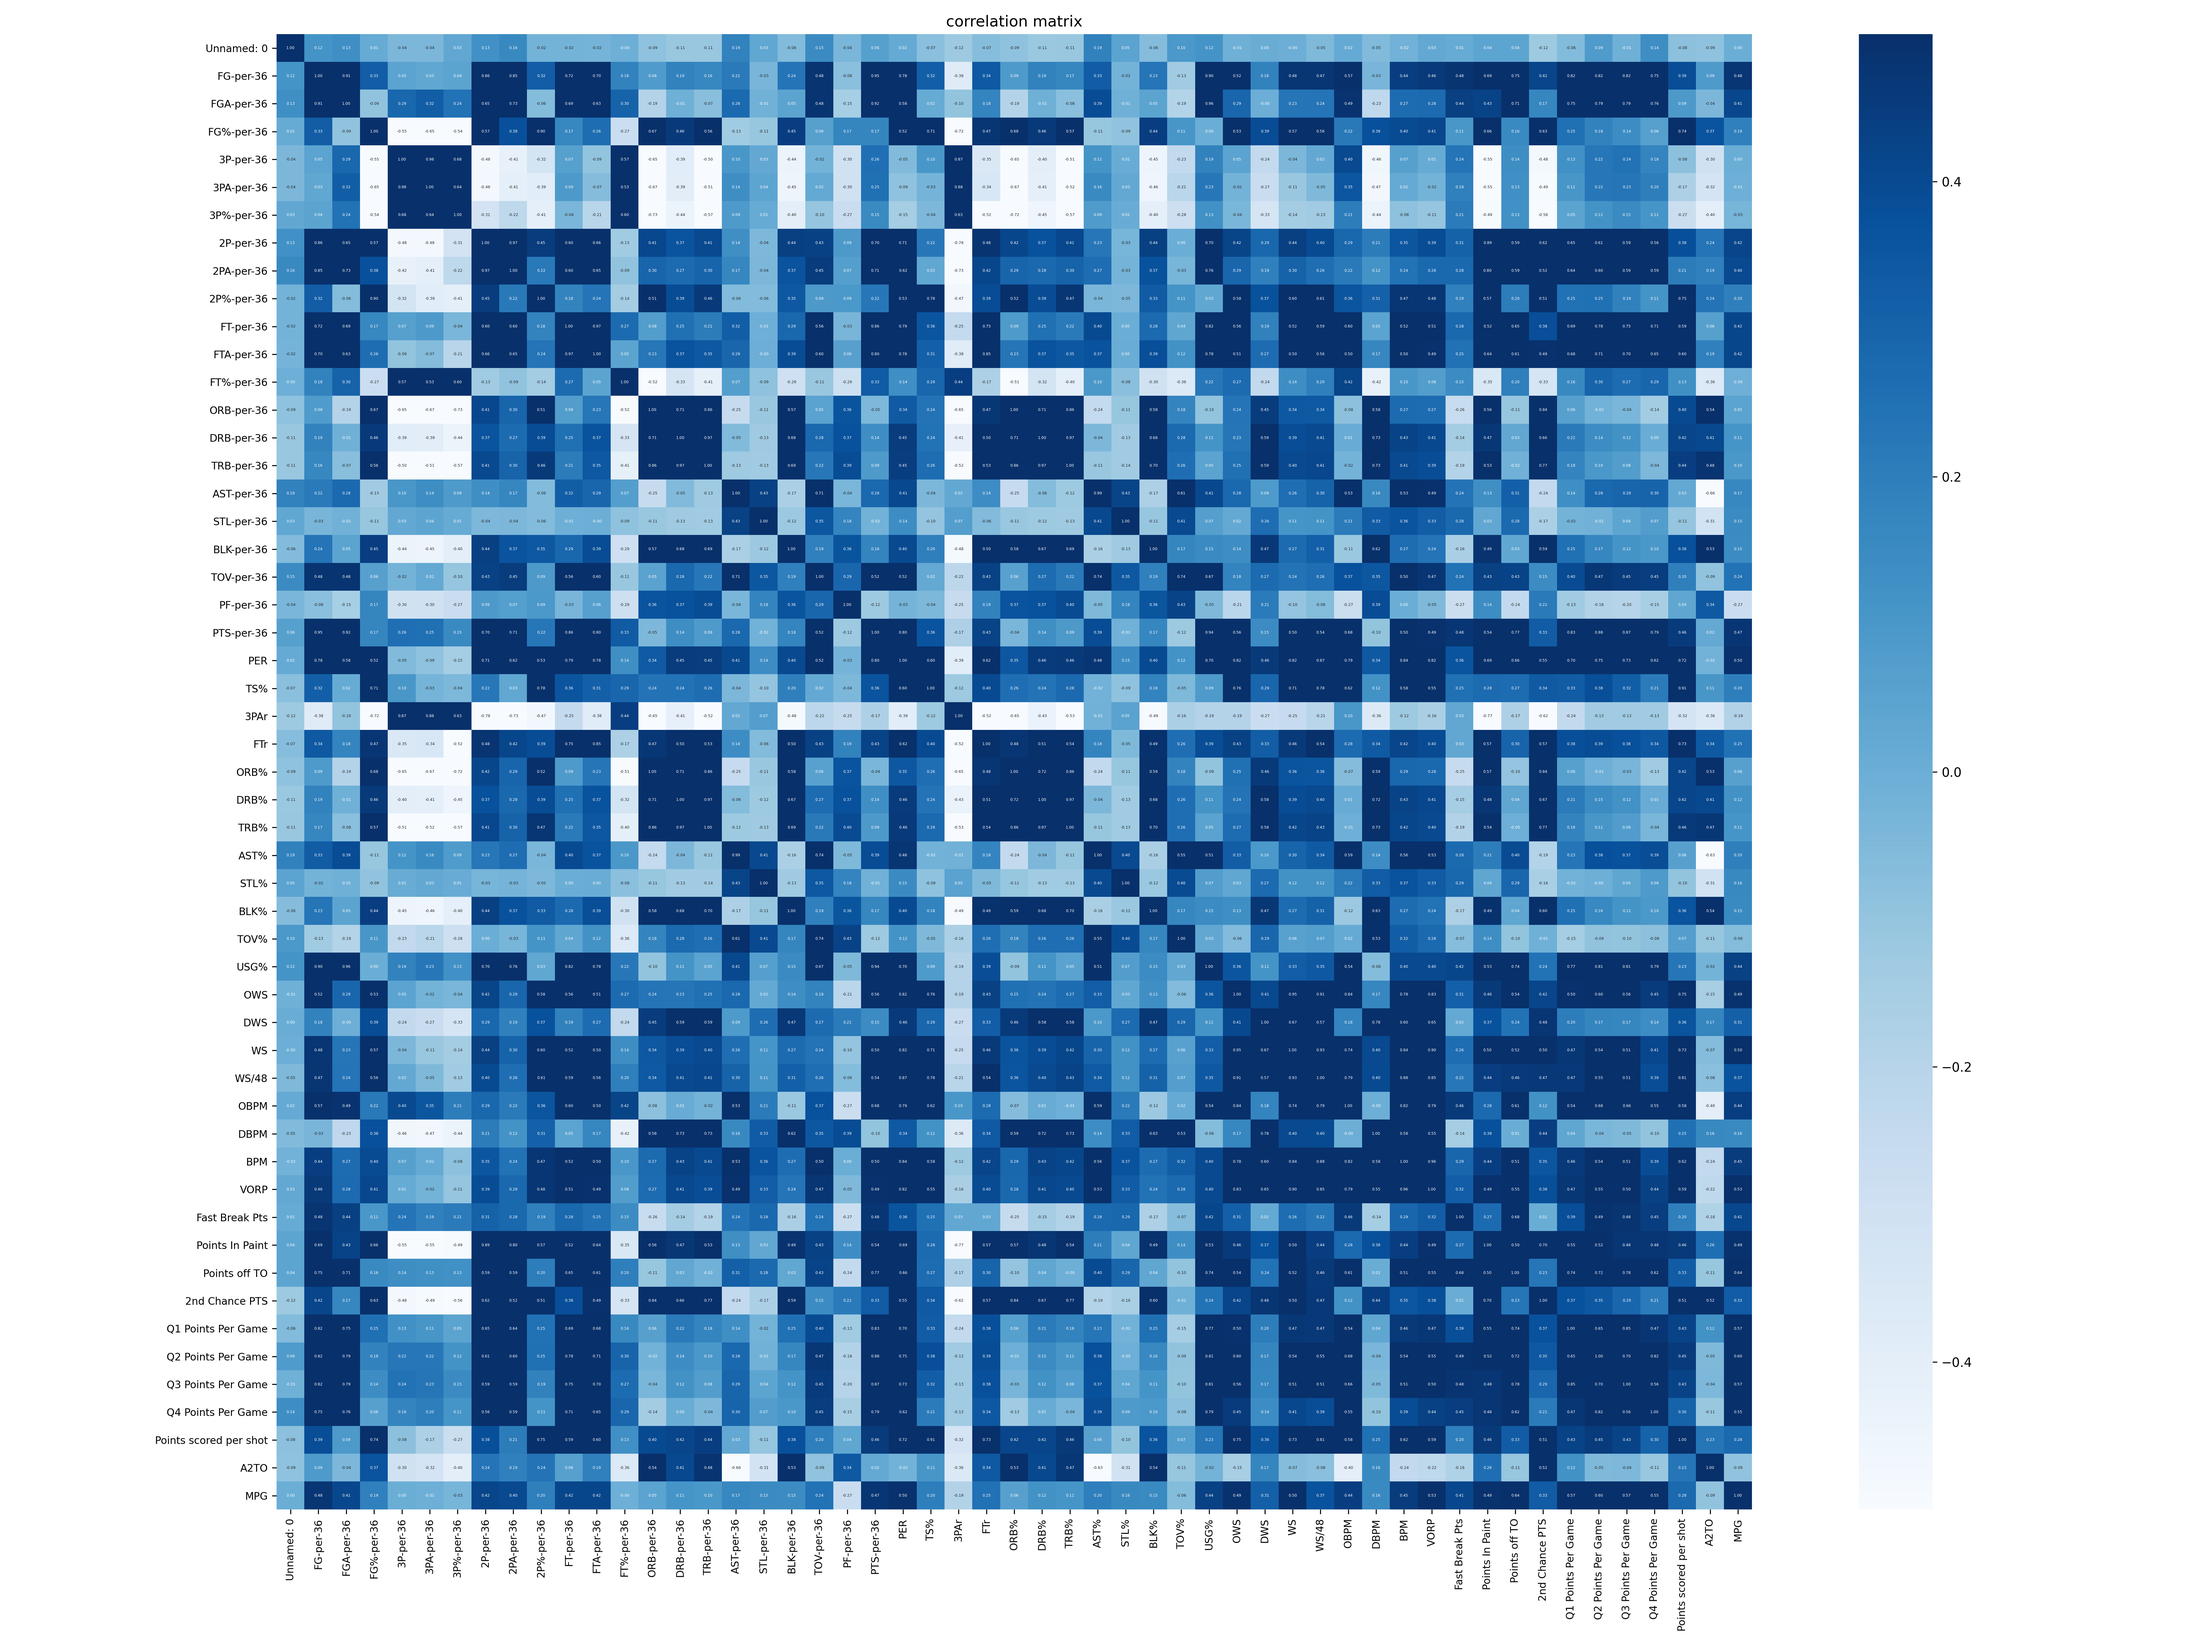
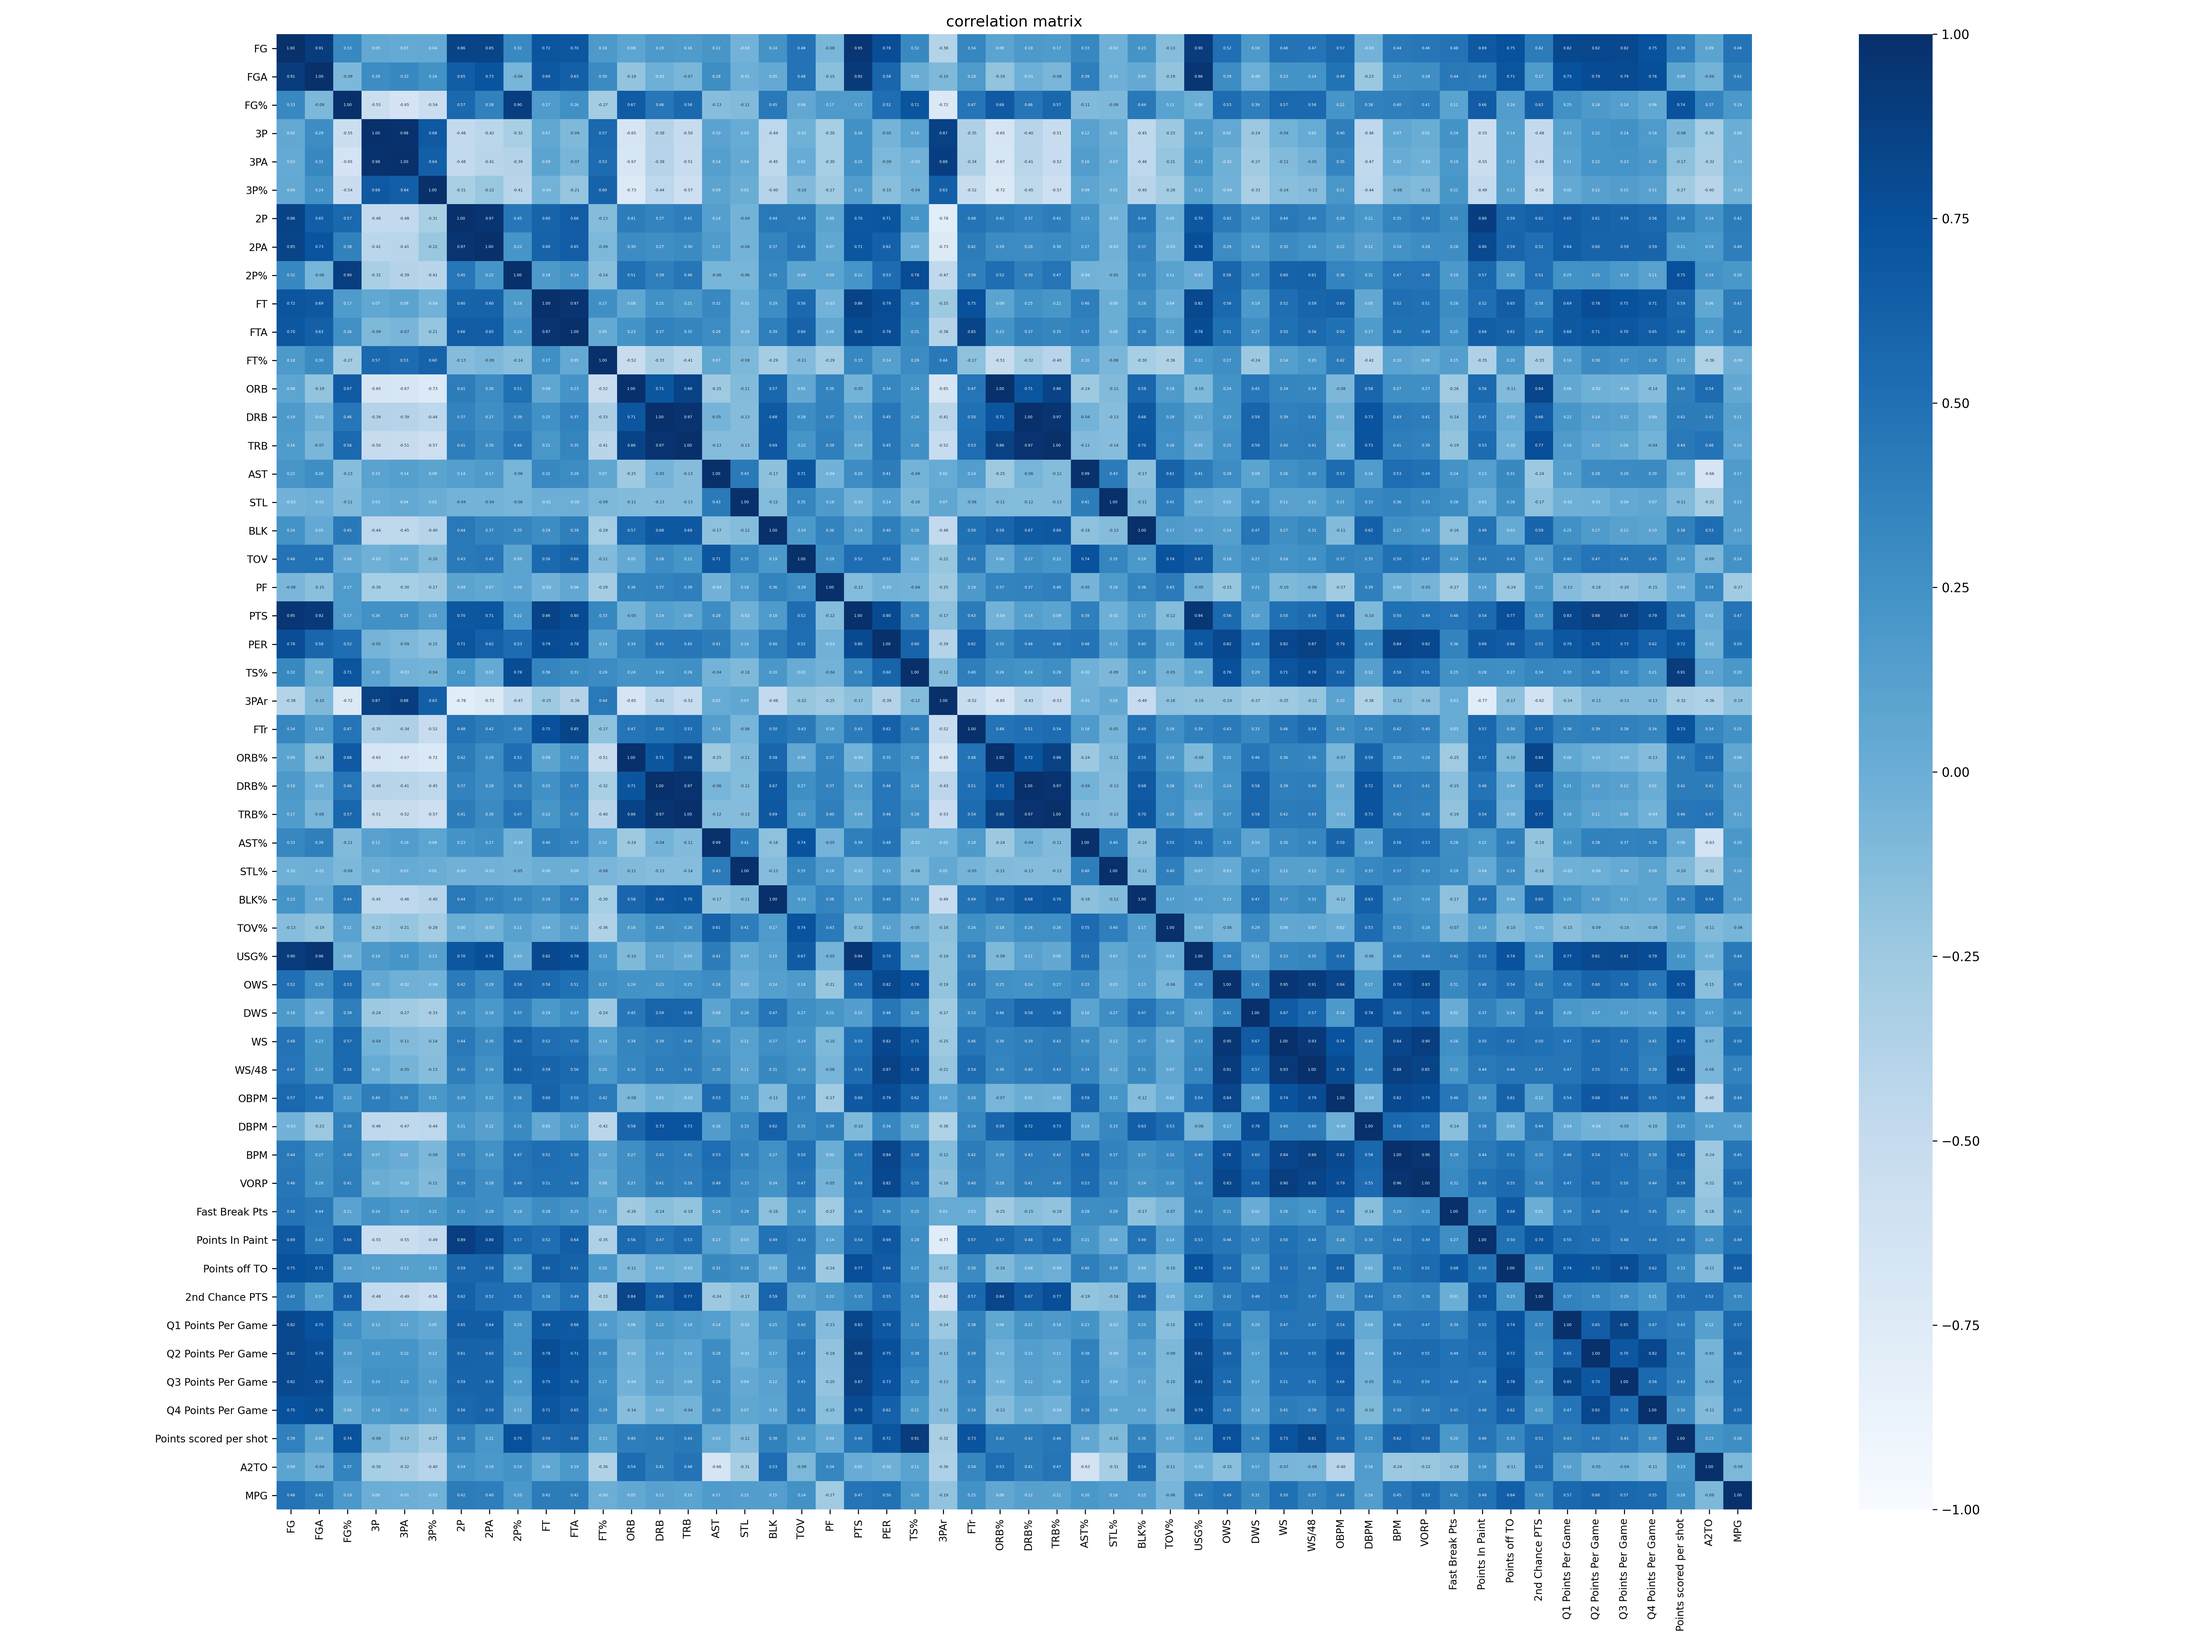
added first image and updated final.csv

diff --git a/correlation_matrix.py b/correlation_matrix.py
@@ -12,7 +12,7 @@ def correlation():
 
     fig, ax = plt.subplots(figsize=(24, 18))
 
-    hm = sns.heatmap(corr, cbar=True, vmin=-0.5, vmax=0.5,
+    hm = sns.heatmap(corr, cbar=True, vmin=-1, vmax=1,
                  fmt='.2f', annot_kws={'size': 3}, annot=True, 
                  square=True, cmap=plt.cm.Blues)
 
@@ -27,5 +27,5 @@ def correlation():
     plt.savefig("corr_matrix", dpi=300)
 
 # Before doing the correlation drop the cols which we dont need.
-df = df.drop(['Player', 'Pos', 'G', 'MP'], axis=1)
+df = df.drop(['Player', 'Pos', 'G', 'MP', 'Index'], axis=1)
 correlation()

diff --git a/merge-datasets.py b/merge-datasets.py
@@ -54,4 +54,5 @@ def add_features(df):
 
 if __name__ == '__main__':
     df = merge_clean(df_per_36, df_advanced, df_extra) 
+    df.to_csv('final.csv', index=False)
 

diff --git a/README.md b/README.md
@@ -22,29 +22,29 @@ I'm going to using player data from the 2017-18 NBA regular season. The final da
 
 1. **Player** - Player name
 2. **Pos** - Position
-3. **FG** - Field Goals Per 36 Minutes
-4. **FGA** - Field Goals Attempted Per 36 Minutes
-5. **FG**% - Field Goal Percentage
-6. **3P** - 3-Pointers Made Per 36 Minutes
-7. **3PA** - 3-Pointers Attempted Per 36 Minutes
-8. **3P%** - 3-Point Percentage
-9. **2P** - 2-Point Field Goals Per 36 Minutes
-10. **2PA** - 2-Point Field Goals Attempted Per 36 Minutes
-11. **2P%** - 2-Point Field Goal Percentage
-12. **FT** - Free-Throws Made Per 36 Minutes
-13. **FTA** - Free Throws Attempted Per 36 Minutes
-14. **FT%** - Free Throw Percentage
-15. **ORB** - Offensive Rebounds Per 36 Minutes
-16. **DRB** - Defensive Rebounds Per 36 Minutes
-17. **TRB** - Total Rebounds Per 36 Minutes
-18. **AST** - Assists Per 36 Minutes
-19. **STL** - Steals Per 36 Minutes
-20. **BLK** - Blocks Per 36 Minutes
-21. **TOV** - Turnovers Per 36 Minutes
-22. **PF** - Personal Fouls Per 36 Minutes
-23. **PTS** - Points Per 36 Minutes
-24. **G** - Games Played
-25. **MP** - Minutes Played In A Season
+3. **G** - Games Played
+4. **MP** - Minutes Played In A Season
+5. **FG** - Field Goals Per 36 Minutes
+6. **FGA** - Field Goals Attempted Per 36 Minutes
+7. **FG**% - Field Goal Percentage
+8. **3P** - 3-Pointers Made Per 36 Minutes
+9. **3PA** - 3-Pointers Attempted Per 36 Minutes
+10. **3P%** - 3-Point Percentage
+11. **2P** - 2-Point Field Goals Per 36 Minutes
+12. **2PA** - 2-Point Field Goals Attempted Per 36 Minutes
+13. **2P%** - 2-Point Field Goal Percentage
+14. **FT** - Free-Throws Made Per 36 Minutes
+15. **FTA** - Free Throws Attempted Per 36 Minutes
+16. **FT%** - Free Throw Percentage
+17. **ORB** - Offensive Rebounds Per 36 Minutes
+18. **DRB** - Defensive Rebounds Per 36 Minutes
+19. **TRB** - Total Rebounds Per 36 Minutes
+20. **AST** - Assists Per 36 Minutes
+21. **STL** - Steals Per 36 Minutes
+22. **BLK** - Blocks Per 36 Minutes
+23. **TOV** - Turnovers Per 36 Minutes
+24. **PF** - Personal Fouls Per 36 Minutes
+25. **PTS** - Points Per 36 Minutes
 26. **PER** - Player Efficiency Rating- A measure of per-minute production standardized such that the league average is 15.
 27. **TS%** - True Shooting Percentage- A measure of shooting efficiency that takes into account 2-point field goals, 3-point field goals, and free throws.
 28. **3PAr** - 3 Point Attempt Rate- Percentage of FG Attempts from 3-Point Range
@@ -83,3 +83,9 @@ Im going to be using three different statistical methods for analysising the dat
 For each method, I am are going to compare the players in terms of Overall impact. In some cases I will also be looking at offensive and defensive impact. This will be done by excluding stats which don't impact the defensive side of the game.
 
 ***Overall Impact Calculations*** 
+
+For *Overall Impact* calculations, we will be looking at features 5:51. I'll be ignoring features like total season minutes and games played because we don't want to seperate players who may have missed games due to injuries. There will be no catagorical variables but these will be used when looking at the results. For *Offensive Impact* calculations, I am going to be looking at the following features: 5:16, 19, 22, 50, 25:28, 31, 33:35, 43:47, 49. In regards to *Defensive Impact* calculations im going to be looking at the features: 17, 20, 21, 36, 29, 32, 33, 37, 40.
+
+Before applying any statistical methods it seems wise to have a look at a correlation plot between the features to see if there is anything interesting. The below image is that correlation matrix with the highest DPI I can manage. Pretty much everything is as we expect to see. For example Second Chance Points positively correlate with Offensive Rebound %, and 3-pointer Attempt Rate negatively correlates with Points Score in the Paint. Nothing in this is super interesting but it is an easy way to visualize all the data. 
+
+![ScreenShot](Images/corr_matrix.png)
